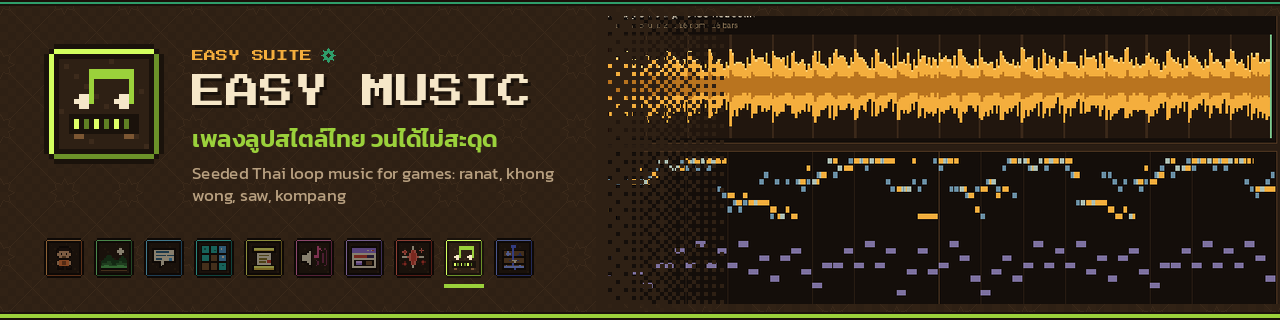
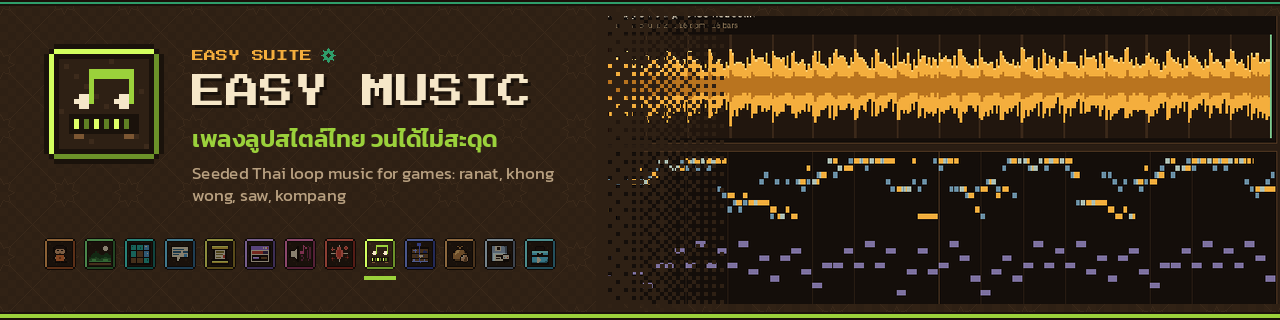
docs: Easy Suite is thirteen tools — 13-tool header strip, suite table and brand assets (adds Easy Kit)

Changed region(s): [[0.0312, 0.7188, 0.4375, 0.9062]]

diff --git a/docs/brand/README.md b/docs/brand/README.md
@@ -1,7 +1,7 @@
 # Easy Suite brand assets
 
 Generated by the Easy Suite brand script (pixel logos, banners, social previews). Same frame, palette and
-fonts across all ten tools; only the icon and accent colour change. Easy Music uses bamboo lime `#9bd13b`
+fonts across all thirteen tools; only the icon and accent colour change. Easy Music uses bamboo lime `#9bd13b`
 and an icon of a music note over a ranat (Thai xylophone) keyboard; its banner and social art are a real
 Easy Music editor view (waveform and piano roll of `raya_kompang`).
 
